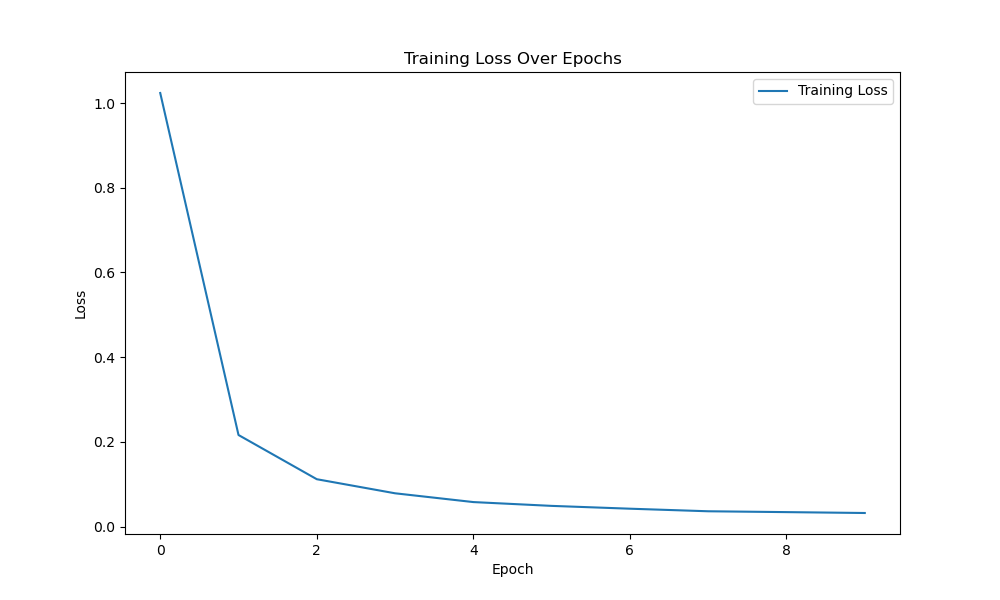
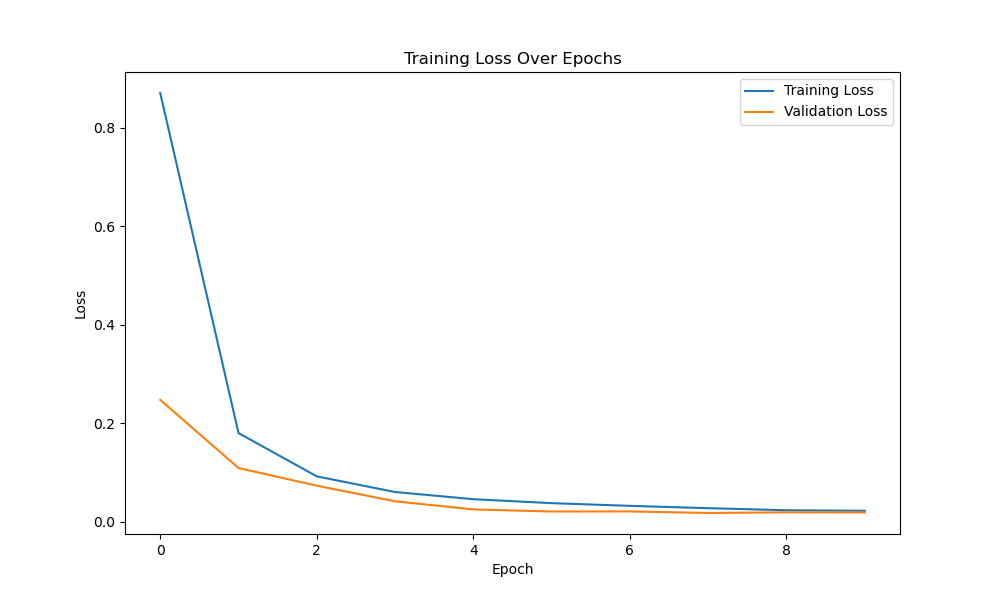
Plotted loss

diff --git a/train.py b/train.py
@@ -15,8 +15,9 @@ generator = torch.Generator()
 generator.manual_seed(5757)
 
 
-def train_model(m, c, o, train_l, epochs=10):
+def train_model(m, c, o, train_l, val_l, epochs=10):
     losses = []
+    v_losses = []
     for e in range(epochs):
         m.train()
         running = 0.0
@@ -32,9 +33,22 @@ def train_model(m, c, o, train_l, epochs=10):
         # Get average loss per batch
         e_loss = running / len(train_l)
         losses.append(e_loss)
+        print()
         print(f'Epoch {e + 1}/{epochs}, Loss: {e_loss}')
+
+        m.eval()
+        running_v = 0.0
+        with torch.no_grad():
+            for i, l in tqdm(val_l):
+                i, l = i.to(device), l.to(device)
+                out = m(i)
+                running_v += c(out, l).item()
+        e_v_loss = running_v / len(val_l)
+        v_losses.append(e_v_loss)
+        print(f'Epoch {e + 1}/{epochs}, Validation Loss: {e_v_loss}')
+
     print('Done training!')
-    return losses
+    return losses, v_losses
 
 
 def plot_results(m, loader, val=True):
@@ -81,9 +95,10 @@ def plot_results(m, loader, val=True):
     plt.show()
 
 
-def plot_loss(losses):
+def plot_loss(t_losses, v_losses):
     plt.figure(figsize=(10,6))
-    plt.plot(losses, label='Training Loss')
+    plt.plot(t_losses, label='Training Loss')
+    plt.plot(v_losses, label='Validation Loss')
     plt.title('Training Loss Over Epochs')
     plt.xlabel('Epoch')
     plt.ylabel('Loss')
@@ -115,12 +130,12 @@ def main(train_p=False, results=False):
         optimizer = optim.Adam(model.parameters(), lr=.003)
 
         print('start training')
-        losses = train_model(model, crit, optimizer, train_loader)
+        losses, v_losses = train_model(model, crit, optimizer, train_loader, val_loader)
         # Saving Model State Dictionary
         state_dict_path = 'data/asl_classifier_state_dict.pth'
         torch.save(model.state_dict(), state_dict_path)
         print(f"State dictionary saved to {state_dict_path}")
-        plot_loss(losses)
+        plot_loss(losses, v_losses)
 
         # plot_results(model, val_loader)
 
